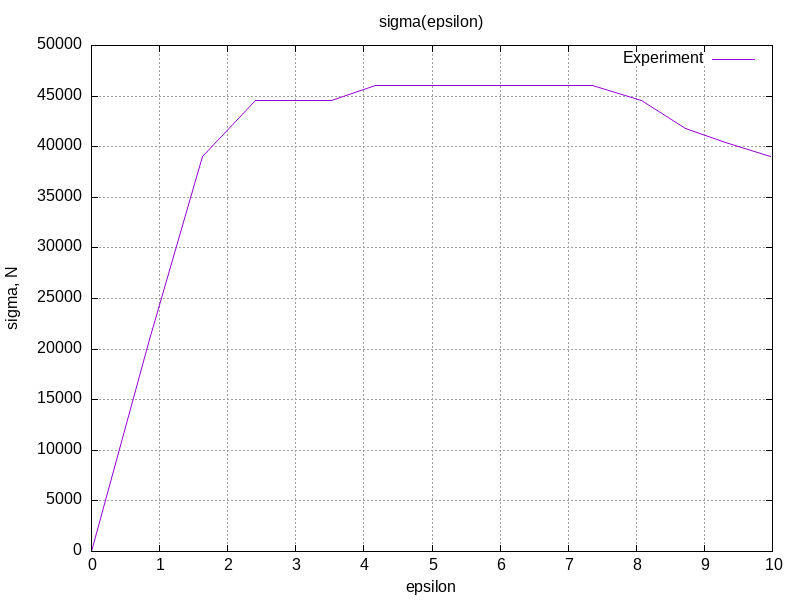
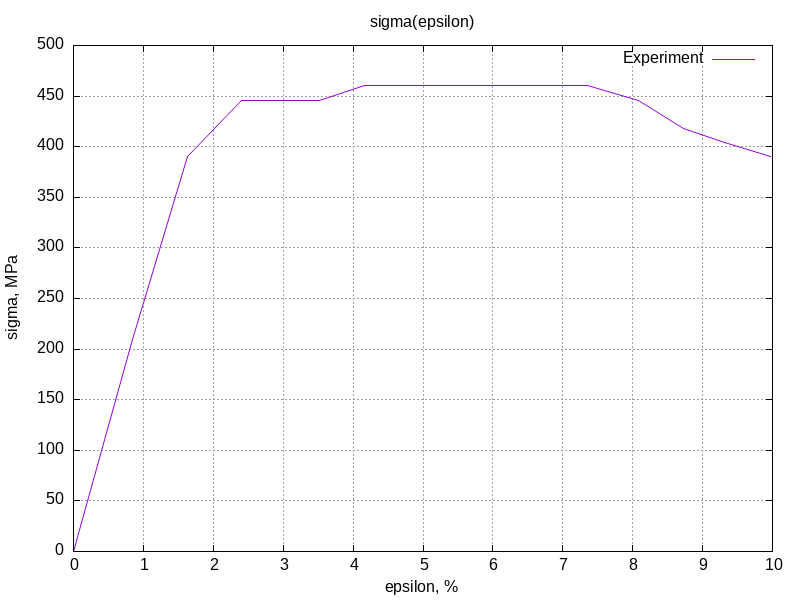
Dimension fix

diff --git a/main.cpp b/main.cpp
@@ -63,6 +63,10 @@ template <typename T> double mean(T &t) {
 }
 
 double area(double d) { return std::numbers::pi * d * d / 4.; }
+// mm
+auto from_grid_to_len(double n) { return n * 0.01 * 2.; };
+// N
+auto from_grid_to_force(double n) { return n * 2 * 10 * 9.81; };
 
 int main() {
   using data_type = std::vector<std::array<double, 11>>;
@@ -87,9 +91,9 @@ int main() {
 
   for (auto &measure : control_points) {
     // F, [N]
-    measure[0] *= 2 * 10 * 9.81;
+    measure[0] = from_grid_to_force(measure[0]);
     // dl, [mm]
-    measure[1] *= 2 * 0.01;
+    measure[1] = from_grid_to_len(measure[1]);
   }
   for (auto &measure : control_points) {
     // d [mm]
@@ -97,19 +101,19 @@ int main() {
     // F - [mm^2]
     measure[4] = area(measure[3]);
 
-    // sigma - [Pa / cm^2]
-    measure[5] = measure[0] / F0 * 100.; // <- Pa / cm^2 | Pa / mm^2
-    // S - [Pa / cm^2]
-    measure[6] = measure[0] / measure[4] * 100.; // <- Pa / cm^2 | Pa / mm^2
+    // sigma - [MPa]
+    measure[5] = measure[0] / F0;
+    // S - [MPa]
+    measure[6] = measure[0] / measure[4];
 
-    // epsilon
+    // epsilon, [%]
     measure[7] = measure[1] / l0 * 100.;
-    // psi
+    // psi, [%]
     measure[8] = (F0 - measure[4]) / F0 * 100.;
 
-    // e
+    // e, [%]
     measure[9] = log(1 + measure[7]);
-    // psi_
+    // psi_, [%]
     measure[10] = log(F0 / measure[4]);
   }
 
@@ -130,12 +134,12 @@ int main() {
 
     for (auto &measure : many_p) {
       // P, [N]
-      measure[1] *= 2 * 10 * 9.81;
+      measure[1] = from_grid_to_force(measure[1]);
       // dl, [mm]
-      measure[0] *= 2 * 0.01;
-      // epsilon
+      measure[0] = from_grid_to_len(measure[0]);
+      // epsilon, [%]
       measure[2] = measure[0] / l0 * 100.;
-      // sigma
+      // sigma, [MPa]
       measure[3] = measure[1] / F0;
     }
     std::ofstream out("out_a.csv");
@@ -146,15 +150,21 @@ int main() {
     }
   }
   double limit_of_proportionality_1 = 25;
-  double limit_of_proportionality_2 = 36;
-  double yield_strength = 35;
-  double temporary_tear_resistance = 38;
-  auto from_grid_to_force = [](double n) { return n * 2 * 10 * 9.81; };
+  double limit_of_proportionality_2 = 31;
+  double yield_strength = 30;
+  double temporary_tear_resistance = 33;
 
-  std::cout << from_grid_to_force(limit_of_proportionality_1) << "\n"
+  std::cout << "force, [N]: \n"
+            << from_grid_to_force(limit_of_proportionality_1) << "\n"
             << from_grid_to_force(limit_of_proportionality_2) << "\n"
             << from_grid_to_force(yield_strength) << "\n"
-            << from_grid_to_force(temporary_tear_resistance);
+            << from_grid_to_force(temporary_tear_resistance) << "\n";
+
+  std::cout << "sigma, [MPa]: \n"
+            << from_grid_to_force(limit_of_proportionality_1) / F0 << "\n"
+            << from_grid_to_force(limit_of_proportionality_2) / F0 << "\n"
+            << from_grid_to_force(yield_strength) / F0 << "\n"
+            << from_grid_to_force(temporary_tear_resistance) / F0 << "\n";
 
   // residual relative narrowing
   std::cout << "psi last " << (F0 - control_points.back()[4]) / F0 * 100.
@@ -162,8 +172,8 @@ int main() {
 
   double def_plastic = 26;
   double def_elastic = 20;
-  auto from_grid_to_len = [](double n) { return n * 0.01 * 2. / 1000.; };
-  std::cout << "DEF" << std::endl
+
+  std::cout << "DEF, [mm]" << std::endl
             << "\telastic: " << from_grid_to_len(def_elastic) << std::endl
             << "\tplastic: " << from_grid_to_len(def_plastic) << std::endl;
 

diff --git a/README.md b/README.md
@@ -10,18 +10,38 @@ d0 : 4.23333 mm
 F0 : 14.0752 mm^2
 K : 0.611312
 
-ответ на 6 вопрос по порядку в СИ
-пределов пропорциональности: 4905, 7063.2
-предела текучести: 6867
-временного сопротивления разрыву: 7455.6
+ответ на 6 вопрос по порядку в СИ, [N], сила и напряжение
+пределов пропорциональности: 4905(348.485 MPa), 7063.2(432.122 MPa)
+предела текучести: 6867(418.182 MPa)
+временного сопротивления разрыву: 7455.6 (460 MPa)
+
 остаточного относительного сужения(взята последняя измеренная точка, она совсем рядом с разрывом(2/3 клетки, условно 4.5 мм, это 0.09 мм удлиннея образца, говорим что там не сузилось практически(или можно просто ничего не говорить))) :
 psi last 47.6597
 
 упругой и пластической деформации :
-DEF
-        elastic: 0.0004
-        plastic: 0.00052
+DEF, mm
+        elastic: 0.4
+        plastic: 0.52
 
 все это измерено на бумаге, по линейке, количество клеточек есть в программе, если хочешь моешь попробовать посчитать только через данные здесь, но я не придумал как
 
 хвостик в конце может быть потому что образец сильно удлинняется? (начинает удлинняться сильно быстрее?) и поэтому прикоадываемая сида уменьшается в силу конструкции машины?
+
+l0 : 30.7067 mm
+d0 : 4.23333 mm
+F0 : 14.0752 mm^2
+K : 0.611312
+force, [N]:
+4905
+6082.2
+5886
+6474.6
+sigma, [MPa]:
+348.485
+432.122
+418.182
+460
+psi last 47.6597
+DEF, [mm]
+        elastic: 0.4
+        plastic: 0.52
